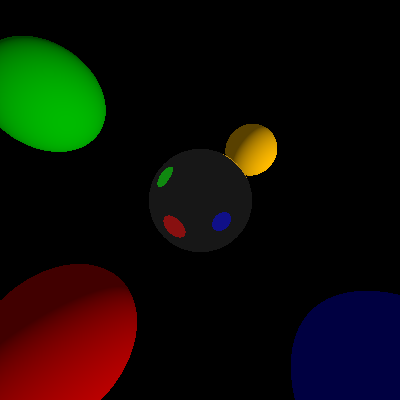
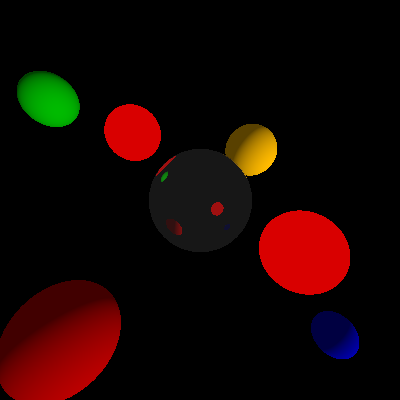
processing infrastructure for multiple different shading solutions

diff --git a/src/cgg/a02/RayTracer.java b/src/cgg/a02/RayTracer.java
@@ -1,6 +1,7 @@
 package cgg.a02;
 
 import static java.lang.Math.*;
+import java.util.ArrayList;
 import tools.*;
 import static tools.Functions.*;
 
@@ -22,7 +23,7 @@ public class RayTracer implements Sampler
 		// process reflective hits
 		boolean __ReflectRay = false;
 		Hit __Proc = scene.reflector().intersect(__Ray);
-		if (__Hit==null||(__Proc!=null&&__Proc.param()<__Hit.param()))
+		if (recentSurfaceHit(__Hit,__Proc))
 		{
 			__Hit = __Proc;
 			__ReflectRay = true;
@@ -31,18 +32,55 @@ public class RayTracer implements Sampler
 		// combine
 		if (__Hit==null) return color(0,0,0);
 		if (__ReflectRay) return shadeReflective(__Hit);
+		return __Hit.colour();
+		/*
+		if (__Hit==null) return color(0,0,0);
+		if (__ReflectRay) return shadeReflective(__Hit);
 		return shade(__Hit);
+		*/
 	}
 
 	private Hit processScene(Ray ray)
 	{
+		// process bland spheres
+		Hit hit = iterateSpheres(scene.blands(),ray);
+
+		// process brick spheres
+		Hit __Hit = iterateSpheres(scene.bricks(),ray);
+		if (__Hit!=null&&recentSurfaceHit(hit,__Hit))
+		{
+			hit = __Hit;
+			hit.setType(1);
+		}
+
+		// surface processing
+		if (hit==null) return null;
+		switch (hit.type())
+		{
+			case 0: hit.overwriteColour(shade(hit));
+				break;
+			case 1: hit.overwriteColour(shadeBrick(hit));
+				break;
+			default:
+		}
+
+		return hit;
+	}
+
+	private Hit iterateSpheres(ArrayList<Sphere> spheres,Ray ray)
+	{
 		Hit hit = null;
-		for (Sphere sphere : scene.blands())
+		for (Sphere sphere : spheres)
 		{
 			Hit __Proc = sphere.intersect(ray);
-			hit = (hit==null||(__Proc!=null&&__Proc.param()<hit.param())) ? __Proc : hit;
+			hit = recentSurfaceHit(hit,__Proc) ? __Proc : hit;
 		}
 		return hit;
+	}
+
+	private boolean recentSurfaceHit(Hit h0,Hit h1)
+	{
+		return h0==null||(h1!=null&&h1.param()<h0.param());
 	}
 
 	private static Color shade(Hit hit)
@@ -51,6 +89,12 @@ public class RayTracer implements Sampler
 		Color ambient = multiply(.1,hit.colour());
 		Color diffuse = multiply(.9*max(0,dot(lightDir,hit.normal())),hit.colour());
 		return add(ambient,diffuse);
+	}
+
+	private static Color shadeBrick(Hit hit)
+	{
+		// TODO
+		return hit.colour();
 	}
 
 	private Color shadeReflective(Hit hit)
@@ -69,6 +113,6 @@ public class RayTracer implements Sampler
 	}
 
 	// TODO: ziegelsteinspheres
-	// TODO: semi-transparent volumetric gas spheres
+	// TODO: semi-transparent volumetric gas spheres or glassesque behaviour
 	// TODO: rough spheres
 }

diff --git a/src/cgg/a02/Scene.java b/src/cgg/a02/Scene.java
@@ -8,6 +8,7 @@ public class Scene
 {
 	private Camera camera;
 	private ArrayList<Sphere> blands;
+	private ArrayList<Sphere> bricks;
 	private Sphere reflector;
 
 	public Scene(int width,int height)
@@ -17,10 +18,15 @@ public class Scene
 
 		// bland sphere setup
 		blands = new ArrayList<Sphere>();
-		blands.add(new Sphere(vec3(-2,2,-3),1,color(vec3(.5,0,0))));
-		blands.add(new Sphere(vec3(-3,-2,-4),1,color(vec3(0,.5,0))));
-		blands.add(new Sphere(vec3(2,2,-2),1,color(vec3(0,0,.5))));
+		blands.add(new Sphere(vec3(-2,2,-3),.75,color(vec3(.5,0,0))));
+		blands.add(new Sphere(vec3(-3,-2,-4),.5,color(vec3(0,.5,0))));
+		blands.add(new Sphere(vec3(2,2,-3),.3,color(vec3(0,0,.5))));
 		blands.add(new Sphere(vec3(2,-2,-8),1,color(vec3(1,.5,0))));
+
+		// brick setup
+		bricks = new ArrayList<Sphere>();
+		bricks.add(new Sphere(vec3(1,.5,-2),.4,color(vec3(.7,0,0))));
+		bricks.add(new Sphere(vec3(-2,-2,-6),.8,color(vec3(.7,0,0))));
 
 		// reflector setup
 		reflector = new Sphere(vec3(0,0,-4),1,color(vec3(.5,.2,.1)));
@@ -28,5 +34,6 @@ public class Scene
 
 	public Camera camera() { return camera; }
 	public ArrayList<Sphere> blands() { return blands; }
+	public ArrayList<Sphere> bricks() { return bricks; }
 	public Sphere reflector() { return reflector; }
 }

diff --git a/src/cgg/a02/Hit.java b/src/cgg/a02/Hit.java
@@ -2,10 +2,33 @@ package cgg.a02;
 
 import tools.*;
 
-public record Hit(double param,Vec3 position,Vec3 normal,Color colour)
+public class Hit
 {
+	private double param;
+	private Vec3 position;
+	private Vec3 normal;
+	private Color colour;
+	private int type;
+
+	public Hit(double param,Vec3 position,Vec3 normal,Color colour)
+	{
+		this.param = param;
+		this.position = position;
+		this.normal = normal;
+		this.colour = colour;
+		this.type = 0;
+	}
+
 	public String toString()
 	{
 		return "Hit[t="+param+", point="+position+", normal="+normal+"]";
 	}
+
+	public double param() { return param; }
+	public Vec3 position() { return position; }
+	public Vec3 normal() { return normal; }
+	public Color colour() { return colour; }
+	public int type() { return type; }
+	public void setType(int type) { this.type = type; }
+	public void overwriteColour(Color colour) { this.colour = colour; }
 }

diff --git a/src/cgg/a02/Sphere.java b/src/cgg/a02/Sphere.java
@@ -44,6 +44,5 @@ public class Sphere
 		Vec3 __Position = r.calculatePosition(t);
 		Vec3 __Normal = divide(subtract(__Position,center),radius);
 		return new Hit(t,__Position,__Normal,colour);
-		// TODO: normals
 	}
 }
